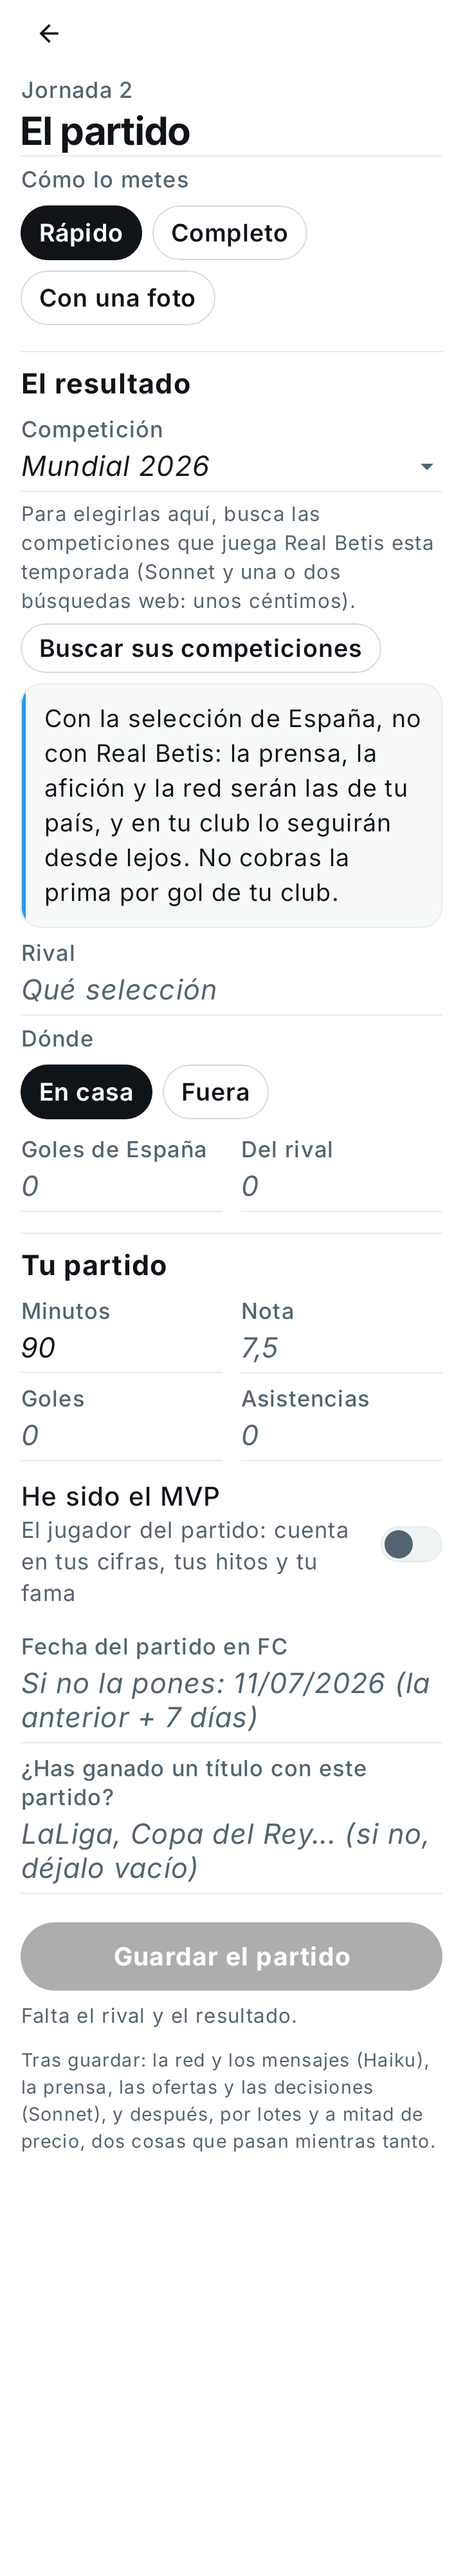
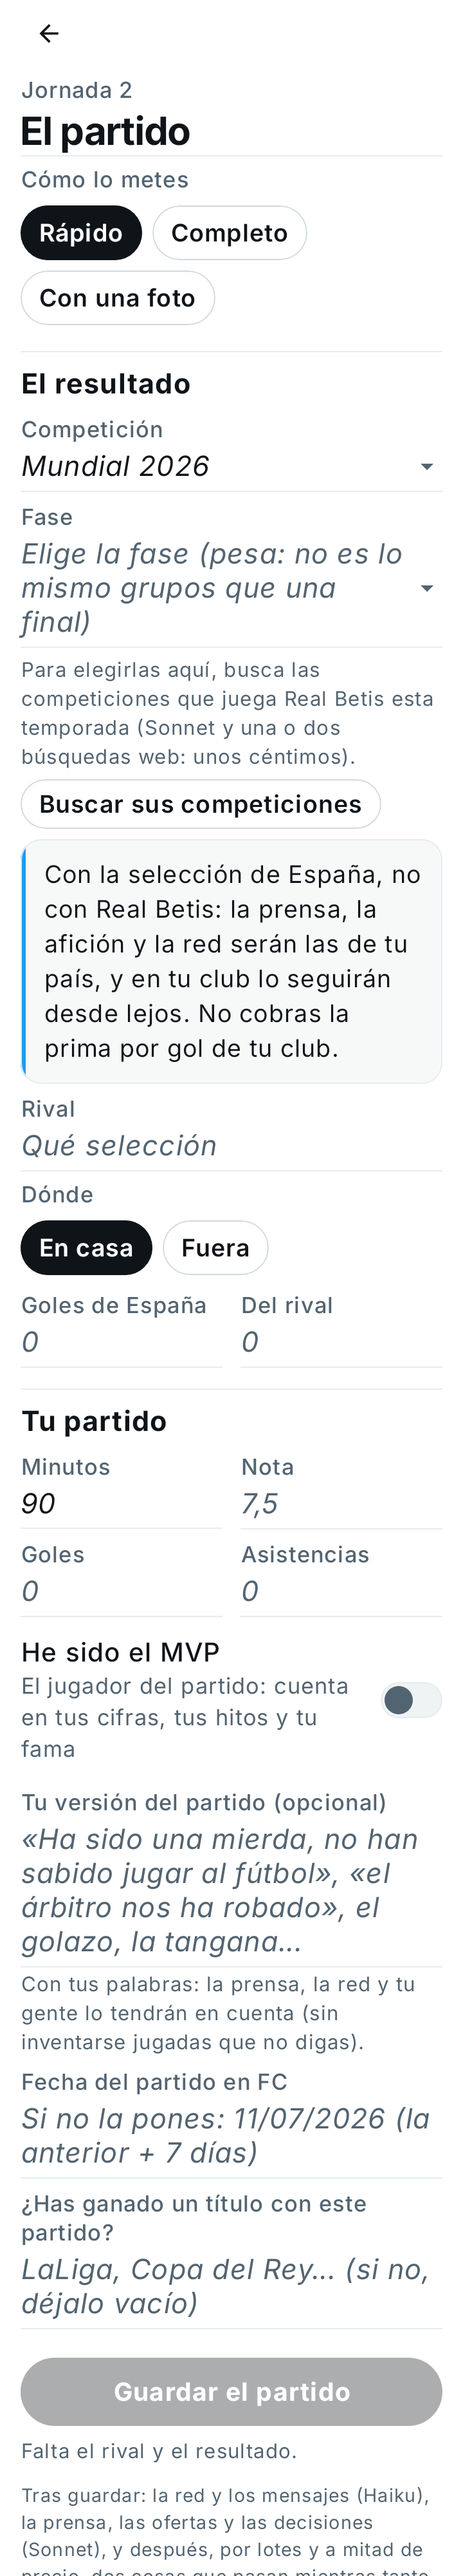
FcFeed 0.12.0: la fase del partido (y las competiciones de selecciones en la lista)
Desplegable aparte con la fase en las competiciones que la tienen; pesa
en la fama, Claude la recibe y los récords de goleador en una final se
pueden comprobar. Los torneos de selecciones salen siempre en la lista.
Arreglado: «Copa» ya no se agrupa con «Copa del Mundo» y cada torneo de
selecciones conserva su nombre.

Claude-Session: https://claude.ai/code/session_01Q4uywen3nuzUg5CTwJaCY5

diff --git a/shai/src/main/java/com/gonzalo/shai/Competiciones.kt b/shai/src/main/java/com/gonzalo/shai/Competiciones.kt
@@ -62,6 +62,49 @@ object Competiciones {
     /** ¿Es de la selección (no de su club)? «Selección», «Mundial 2026», «Eurocopa», «Nations League», «Amistoso internacional»… */
     fun deSelecciones(s: String): Boolean = familia(s).let { it == Familia.SELECCION || it == Familia.TORNEO_SELECCIONES }
 
+    /** Las competiciones de selecciones que salen siempre en la lista (después de las del club). */
+    val DE_SELECCIONES = listOf("Copa del Mundo", "Eurocopa", "Copa América", "UEFA Nations League", "Clasificación para el Mundial", "Clasificación para la Eurocopa", "Amistoso internacional")
+
+    /**
+     * Las fases de una competición (para el desplegable), o null si no tiene (una liga, un amistoso). Las de la Champions, la Europa
+     * League y la Conference, con el formato de liga única (desde 2024/25); las del Mundial, con el de 48 selecciones (desde 2026).
+     */
+    fun fases(comp: String): List<String>? {
+        val n = norm(comp)
+        if (n.isBlank()) return null
+        val f = familia(comp)
+        return when {
+            f == Familia.CHAMPIONS || f == Familia.EUROPA || f == Familia.CONFERENCE ->
+                listOf("Fase previa", "Fase liga", "Play-off de eliminatorias", "Octavos de final", "Cuartos de final", "Semifinales", "Final")
+            f == Familia.MUNDIAL_CLUBES -> listOf("Fase de grupos", "Octavos de final", "Cuartos de final", "Semifinales", "Final")
+            f == Familia.SUPERCOPA -> listOf("Semifinales", "Final")
+            f == Familia.TORNEO_SELECCIONES && Regex("clasif|eliminator|qualif").containsMatchIn(n) -> listOf("Fase de grupos", "Repesca", "Final de la repesca")
+            f == Familia.TORNEO_SELECCIONES && hay(n, "nations league", "liga de naciones") -> listOf("Fase de liga", "Cuartos de final", "Semifinales", "Tercer puesto", "Final")
+            f == Familia.TORNEO_SELECCIONES && hay(n, "amistoso", "friendly") -> null
+            f == Familia.TORNEO_SELECCIONES && hay(n, "mundial", "copa del mundo", "world cup") -> listOf("Fase de grupos", "Dieciseisavos de final", "Octavos de final", "Cuartos de final", "Semifinales", "Tercer puesto", "Final")
+            f == Familia.TORNEO_SELECCIONES -> listOf("Fase de grupos", "Octavos de final", "Cuartos de final", "Semifinales", "Tercer puesto", "Final")
+            f == Familia.SELECCION -> listOf("Fase de grupos", "Dieciseisavos de final", "Octavos de final", "Cuartos de final", "Semifinales", "Tercer puesto", "Final")
+            f == Familia.COPA -> listOf("Primera ronda", "Segunda ronda", "Dieciseisavos de final", "Octavos de final", "Cuartos de final", "Semifinales", "Final")
+            else -> null
+        }
+    }
+
+    fun esFinal(fase: String) = norm(fase).let { it == "final" || it.startsWith("final ") && !it.startsWith("final de la repesca") }
+
+    /** Cuánto pesa la fase (para la fama del partido): la fase de grupos, 1; la final, 2. */
+    fun pesoFase(fase: String): Double {
+        val n = norm(fase)
+        return when {
+            n.isBlank() -> 1.0
+            esFinal(fase) -> 2.0
+            n.startsWith("semifinal") -> 1.6
+            n.startsWith("cuartos") -> 1.4
+            n.startsWith("octavos") || n.startsWith("tercer") -> 1.25
+            n.startsWith("dieciseisavos") || n.startsWith("play off") || n.contains("repesca") -> 1.1
+            else -> 1.0
+        }
+    }
+
     /** Una competición «bonita» a partir de lo que escribió él («liga» → «Liga»). */
     fun bonita(s: String): String = s.trim().replace(Regex("\\s+"), " ").replaceFirstChar { it.uppercase() }
 
@@ -78,7 +121,9 @@ object Competiciones {
         val usadas = partidos.map { it.competicion.trim() }.filter { it.isNotBlank() && it != OTRA }
         val extra = usadas.filter { canonica(it, base, u.compAlias) == null && familia(it) != Familia.AMISTOSO && familia(it) != Familia.SELECCION }
             .groupBy { familia(it)?.name ?: norm(it) }.values.map { g -> g.groupingBy { it }.eachCount().maxByOrNull { it.value }!!.key }
-        return (base + extra).distinctBy { norm(it) } + AMISTOSO + SELECCION
+        // (y las de selecciones, siempre: el Mundial, la Eurocopa, la Nations League…)
+        val sel = DE_SELECCIONES.filter { d -> (base + extra).none { norm(it) == norm(d) } }
+        return (base + extra).distinctBy { norm(it) } + sel + AMISTOSO + SELECCION
     }
 
     /**
@@ -93,6 +138,8 @@ object Competiciones {
         val f = familia(raw)
         if (f == Familia.AMISTOSO) return AMISTOSO
         if (f == Familia.SELECCION) return SELECCION
+        // (cada torneo de selecciones es el suyo: «Mundial 2026» no es «Clasificación para el Mundial»; va con su nombre)
+        if (f == Familia.TORNEO_SELECCIONES) return null
         if (f != null) {
             val mismas = lista.filter { familia(it) == f }
             if (mismas.size == 1) return mismas.first()
@@ -101,7 +148,8 @@ object Competiciones {
                 mismas.maxByOrNull { c -> norm(c).split(' ').count { it in ps } }?.takeIf { c -> norm(c).split(' ').any { it in ps } }?.let { return it }
             }
         }
-        if (n.length >= 4) lista.firstOrNull { val c = norm(it); c.length >= 4 && (c.contains(n) || n.contains(c)) }?.let { return it }
+        // (una que contiene a la otra, pero del mismo tipo: «Copa» no es «Copa del Mundo»)
+        if (n.length >= 4) lista.firstOrNull { val c = norm(it); c.length >= 4 && (c.contains(n) || n.contains(c)) && (f == null || familia(it) == null || familia(it) == f) }?.let { return it }
         return null
     }
 

diff --git a/shai/src/main/java/com/gonzalo/shai/PantPartido.kt b/shai/src/main/java/com/gonzalo/shai/PantPartido.kt
@@ -86,6 +86,30 @@ fun ElegirCompeticion(u: Universo, lista: List<String>, valor: String, abierto0:
     }
 }
 
+/** La fase o ronda (un desplegable aparte, solo en las competiciones que las tienen). */
+@Composable
+fun ElegirFase(fases: List<String>, valor: String, alCambiar: (String) -> Unit) {
+    var abierto by remember { mutableStateOf(false) }
+    Column(Modifier.fillMaxWidth().padding(top = 8.dp)) {
+        Etiqueta("Fase")
+        Box {
+            Row(Modifier.fillMaxWidth().tocable { abierto = true }.padding(top = 4.dp, bottom = 6.dp), verticalAlignment = androidx.compose.ui.Alignment.CenterVertically) {
+                Text(valor.ifBlank { "Elige la fase (pesa: no es lo mismo grupos que una final)" }, color = if (valor.isBlank()) Muted else Charcoal, fontFamily = Display, fontStyle = FontStyle.Italic,
+                    fontSize = 18.sp, lineHeight = 22.sp, modifier = Modifier.weight(1f))
+                Icon(Icons.Filled.ArrowDropDown, "Elegir", tint = Muted)
+            }
+            DropdownMenu(abierto, { abierto = false }, containerColor = Crudo) {
+                fases.forEach { f ->
+                    DropdownMenuItem(text = { Text(f, color = Charcoal, fontFamily = Body, fontWeight = if (f == valor) FontWeight.Bold else FontWeight.Normal, fontSize = 16.sp, lineHeight = 21.sp) },
+                        onClick = { alCambiar(f); abierto = false })
+                }
+                DropdownMenuItem(text = { Text("Sin fase", color = Muted, fontFamily = Body, fontSize = 16.sp) }, onClick = { alCambiar(""); abierto = false })
+            }
+        }
+        Filete(1.5.dp)
+    }
+}
+
 /** «Busca las competiciones de tu club»: si aún no están (o son las de tu club de antes). */
 @Composable
 fun BuscarCompeticiones(u: Universo, modifier: Modifier = Modifier) {
@@ -113,6 +137,8 @@ fun PantPartido(id: String, alVolver: () -> Unit, alGuardado: () -> Unit, comoIn
     val anteriores = remember(id) { Carreras.partidos(id).map { it.second } }
     var como by rememberSaveable { mutableIntStateOf(comoInicial) }
     var competicion by rememberSaveable { mutableStateOf(anteriores.lastOrNull()?.competicion.orEmpty()) }
+    // (la fase: la del partido anterior si era de la misma competición)
+    var fase by rememberSaveable { mutableStateOf(anteriores.lastOrNull()?.takeIf { it.competicion == competicion }?.fase.orEmpty()) }
     var rival by rememberSaveable { mutableStateOf("") }
     var local by rememberSaveable { mutableStateOf(true) }
     var gf by rememberSaveable { mutableStateOf("") }
@@ -176,7 +202,8 @@ fun PantPartido(id: String, alVolver: () -> Unit, alGuardado: () -> Unit, comoIn
 
         BloqueEditor("El resultado")
         val lista = Competiciones.lista(u, anteriores)
-        ElegirCompeticion(u, lista, competicion, desplegable) { competicion = it }
+        ElegirCompeticion(u, lista, competicion, desplegable) { if (it != competicion) fase = ""; competicion = it }
+        Competiciones.fases(competicion)?.let { fs -> ElegirFase(fs, fase) { fase = it } }
         BuscarCompeticiones(u, Modifier.padding(top = 6.dp))
         val conSeleccion = Competiciones.deSelecciones(competicion)
         val tuEquipo = if (conSeleccion) u.personaje.suSeleccion.ifBlank { "tu selección" } else u.club
@@ -240,7 +267,7 @@ fun PantPartido(id: String, alVolver: () -> Unit, alGuardado: () -> Unit, comoIn
                 if (u.modo == Rol.JUGADOR) minutos.toIntOrNull() ?: 0 else 90, goles.toIntOrNull() ?: 0, asist.toIntOrNull() ?: 0, nota(laNota), goleadores.trim(),
                 if (como == 1) equipo else emptyMap(), if (como == 1) rendimiento.trim() else "", momentos.trim(),
                 if (como == 1) media.toIntOrNull() ?: 0 else 0, Fechas.lee(fecha)?.let { Fechas.iso(it) } ?: "", if (deFoto) "foto" else if (como == 1) "completa" else "rapida", titulo.trim(),
-                mvp = u.modo == Rol.JUGADOR && mvp)
+                mvp = u.modo == Rol.JUGADOR && mvp, fase = fase.takeIf { Competiciones.fases(competicion)?.contains(it) == true }.orEmpty())
             ocupado = "Escribiendo la prensa…"; aviso = null
             ambito.launch {
                 val r = withContext(Dispatchers.IO) { runCatching { Motor.partido(id, p) } }

diff --git a/shai/src/main/java/com/gonzalo/shai/Modelo.kt b/shai/src/main/java/com/gonzalo/shai/Modelo.kt
@@ -387,8 +387,12 @@ data class Partido(
     val mvp: Boolean = false,
     /** La competición tal cual se metió, si se agrupó en otra de la lista ([Competiciones]). */
     val competicionOriginal: String = "",
+    /** La fase o ronda («Fase de grupos», «Cuartos de final», «Final»…): en las competiciones que las tienen ([Competiciones.fases]). */
+    val fase: String = "",
 ) {
     val resultado: String get() = "$golesFavor-$golesContra"
+    /** Es una final (o la vuelta de una). */
+    val esFinal: Boolean get() = Competiciones.esFinal(fase)
     val ganado: Boolean get() = golesFavor > golesContra
     val empatado: Boolean get() = golesFavor == golesContra
     val letra: String get() = if (ganado) "V" else if (empatado) "E" else "D"
@@ -396,12 +400,12 @@ data class Partido(
     fun aMapa(): Map<String, Any?> = mapOf(
         "te" to temporada, "co" to competicion, "ri" to rival, "lo" to local, "gf" to golesFavor.toLong(), "gc" to golesContra.toLong(), "mi" to minutos.toLong(),
         "go" to goles.toLong(), "as" to asistencias.toLong(), "no" to nota, "gs" to goleadores, "eq" to equipo, "re" to rendimiento, "mo" to momentos,
-        "me" to media.toLong(), "fe" to fecha, "cm" to como, "ti" to titulo, "fx" to fechaEstimada, "mv" to mvp, "co0" to competicionOriginal,
+        "me" to media.toLong(), "fe" to fecha, "cm" to como, "ti" to titulo, "fx" to fechaEstimada, "mv" to mvp, "co0" to competicionOriginal, "fa" to fase,
     )
 
     /** Una línea para contárselo a Claude. */
     fun resumen(modo: Rol): String = buildString {
-        append(if (local) "En casa contra $rival" else "En el campo del $rival"); append(" ($competicion"); if (fecha.isNotBlank()) append(", ${Fechas.bonita(fecha)}"); append("): ")
+        append(if (local) "En casa contra $rival" else "En el campo del $rival"); append(" ($competicion"); if (fase.isNotBlank()) append(", $fase"); if (fecha.isNotBlank()) append(", ${Fechas.bonita(fecha)}"); append("): ")
         append(resultado); append(if (ganado) " (victoria)" else if (empatado) " (empate)" else " (derrota)")
         if (modo == Rol.JUGADOR) {
             append(". Jugó $minutos min"); if (goles > 0) append(", $goles gol${if (goles > 1) "es" else ""}"); if (asistencias > 0) append(", $asistencias asistencia${if (asistencias > 1) "s" else ""}")
@@ -421,7 +425,7 @@ data class Partido(
             m["te"].comoTexto(), m["co"].comoTexto(), m["ri"].comoTexto(), m["lo"].comoBool(), m["gf"].comoLong().toInt(), m["gc"].comoLong().toInt(),
             m["mi"].comoLong().toInt(), m["go"].comoLong().toInt(), m["as"].comoLong().toInt(), m["no"].comoDouble(), m["gs"].comoTexto(),
             m["eq"].comoMapa().mapValues { it.value.comoTexto() }, m["re"].comoTexto(), m["mo"].comoTexto(), m["me"].comoLong().toInt(), m["fe"].comoTexto(),
-            m["cm"].comoTexto().ifBlank { "rapida" }, m["ti"].comoTexto(), m["fx"].comoBool(), m["mv"].comoBool(), m["co0"].comoTexto(),
+            m["cm"].comoTexto().ifBlank { "rapida" }, m["ti"].comoTexto(), m["fx"].comoBool(), m["mv"].comoBool(), m["co0"].comoTexto(), m["fa"].comoTexto(),
         )
     }
 }

diff --git a/shai/src/test/java/com/gonzalo/shai/FasesTest.kt b/shai/src/test/java/com/gonzalo/shai/FasesTest.kt
@@ -1,0 +1,40 @@
+package com.gonzalo.shai
+
+import org.junit.Assert.*
+import org.junit.Test
+
+/** Las fases: el desplegable sale en las competiciones que las tienen, pesa en la fama y en lo que se cuenta, y la final cuenta para los récords. */
+class FasesTest {
+    @Test fun lasFasesDeCadaCompeticion() {
+        assertEquals("Final", Competiciones.fases("UEFA Champions League")!!.last())
+        assertTrue(Competiciones.fases("UEFA Champions League")!!.contains("Fase liga"))
+        assertTrue(Competiciones.fases("Copa del Mundo")!!.contains("Dieciseisavos de final"))
+        assertTrue(Competiciones.fases("Eurocopa")!!.contains("Octavos de final"))
+        assertTrue(Competiciones.fases("Copa del Rey")!!.contains("Cuartos de final"))
+        assertNull(Competiciones.fases("LaLiga EA Sports")); assertNull(Competiciones.fases("Amistoso")); assertNull(Competiciones.fases("Amistoso internacional"))
+        assertTrue(Competiciones.esFinal("Final")); assertFalse(Competiciones.esFinal("Final de la repesca")); assertFalse(Competiciones.esFinal("Semifinales"))
+    }
+
+    @Test fun lasDeSeleccionesSalenEnLaLista() {
+        val l = Competiciones.lista(Ejemplo.universo())
+        assertTrue(l.containsAll(listOf("Copa del Mundo", "Eurocopa", "UEFA Nations League")))
+        assertTrue(l.indexOf("Copa del Mundo") < l.indexOf(Competiciones.SELECCION))
+    }
+
+    @Test fun laFinalPesaMasQueLosGrupos() {
+        val p = Partido("2026/27", "Copa del Mundo", "Portugal", true, 2, 1, 90, 2, 0, 8.5, fase = "Fase de grupos")
+        val grupos = Vida.famaDelPartido(Rol.JUGADOR, p, 40, 19)
+        val final = Vida.famaDelPartido(Rol.JUGADOR, p.copy(fase = "Final"), 40, 19)
+        assertTrue("grupos $grupos, final $final", final > grupos)
+        val t = Narrador.partido(Ejemplo.universo(), p.copy(fase = "Final"))
+        assertTrue(t.contains("(Copa del Mundo, Final")); assertTrue(t.contains("ES UNA FINAL"))
+        assertEquals("Final", Partido.de(p.copy(fase = "Final").aMapa()).fase)
+    }
+
+    @Test fun cadaTorneoDeSeleccionesSeQuedaConSuNombre() {
+        val l = Competiciones.lista(Ejemplo.universo())
+        assertEquals("Mundial 2026", Competiciones.sinPreguntar("Mundial 2026", l, emptyMap()))
+        assertEquals("Copa del Mundo", Competiciones.sinPreguntar("copa del mundo", l, emptyMap()))
+        assertEquals("Copa", Competiciones.sinPreguntar("Copa", l, emptyMap()))
+    }
+}

diff --git a/shai/src/main/java/com/gonzalo/shai/RecordsReales.kt b/shai/src/main/java/com/gonzalo/shai/RecordsReales.kt
@@ -63,7 +63,7 @@ object RecordsReales {
     val TODOS: List<RecordReal> = listOf(
         // 1. Precocidad y juventud
         e(1, "Campeón del Mundo más joven", "Pelé (Brasil) – Suecia 1958", 17, 249, "campeon_joven:mundial"),
-        e(2, "Goleador en final de Mundial más joven", "Pelé (Brasil) – doblete ante Suecia, 1958", 17, 249),
+        e(2, "Goleador en final de Mundial más joven", "Pelé (Brasil) – doblete ante Suecia, 1958", 17, 249, "gol_final_joven:mundial"),
         e(3, "Hat-trick en Mundial más joven", "Pelé (Brasil) – ante Francia (semifinal de 1958)", 17, 244, "hat_joven:mundial"),
         e(4, "Goleador más joven en la Eurocopa", "Lamine Yamal (España) – ante Francia (2024)", 16, 362, "gol_joven:eurocopa"),
         e(5, "Jugador más joven en disputar la Eurocopa", "Lamine Yamal (España) – ante Croacia (2024)", 16, 338, "debut_joven:eurocopa"),
@@ -78,7 +78,7 @@ object RecordsReales {
         e(14, "Goleador más joven de una liga del Top 5", "Lamine Yamal (FC Barcelona) – ante el Granada (2023)", 16, 87, "gol_joven:top5"),
         e(15, "Capitán más joven en la Champions League", "Rúben Neves (FC Porto) – ante el Maccabi Tel Aviv (2015)", 18, 221),
         e(16, "Hat-trick más joven en la Champions League", "Raúl González (Real Madrid) – ante el Ferencváros (1995)", 18, 114, "hat_joven:champions"),
-        e(17, "Goleador más joven en una final de Champions", "Patrick Kluivert (Ajax) – ante el AC Milan (1995)", 18, 327),
+        e(17, "Goleador más joven en una final de Champions", "Patrick Kluivert (Ajax) – ante el AC Milan (1995)", 18, 327, "gol_final_joven:champions"),
         e(18, "Goleador más joven de la Copa América", "Johnnier Montaño (Colombia) – ante Argentina (1999)", 16, 171, "gol_joven:copaamerica"),
         e(19, "Goleador más joven en la Copa Libertadores", "Angelo Gabriel (Santos FC) – ante el Deportivo Lara (2021)", 16, 105, "gol_joven:libertadores"),
         e(20, "Debutante más joven en la Premier League", "Ethan Nwaneri (Arsenal) – ante el Brentford (2022)", 15, 181, "debut_joven:premier"),

diff --git a/shai/src/main/java/com/gonzalo/shai/Narrador.kt b/shai/src/main/java/com/gonzalo/shai/Narrador.kt
@@ -128,7 +128,9 @@ Reglas que no se rompen nunca:
      * League»…), que se sepa que no es con su club y se cuente en consecuencia.
      */
     fun partido(u: Universo, p: Partido): String {
-        val base = p.resumen(u.modo) + (if (p.momentos.isBlank()) "" else "\n" +
+        val base = p.resumen(u.modo) + (if (p.fase.isBlank()) "" else "\n" + "LA FASE: ${p.fase} de ${p.competicion}. Cuanto más avanzada, más pesa: " +
+            (if (p.esFinal) "ES UNA FINAL, lo más grande que hay: que se note en todo (la presión, la repercusión, la celebración o el drama)." else "que se note en la presión, el tono y la repercusión (no es lo mismo una fase de grupos que unos cuartos).")) +
+            (if (p.momentos.isBlank()) "" else "\n" +
             "SU VERSIÓN DEL PARTIDO (lo cuenta él, con sus palabras): «${p.momentos.trim()}». Que se note de verdad: que marque el tono de la prensa, la red y lo que le escribe su gente (quien le da la razón, quien no, la polémica si la hay). Puedes comentarlo y opinar, pero no inventes jugadas, nombres ni cifras que no diga.")
         if (!Competiciones.deSelecciones(p.competicion)) return base
         val sel = u.personaje.suSeleccion.ifBlank { null }

diff --git a/shai/src/main/java/com/gonzalo/shai/Historicos.kt b/shai/src/main/java/com/gonzalo/shai/Historicos.kt
@@ -159,6 +159,7 @@ object Historicos {
     /** Lo que tiene que pasar en un partido para cada familia de edad. */
     private fun cumple(u: Universo, f: String, c: String, p: Partido, i: Int): Boolean = when (f) {
         "gol_joven", "gol_veterano" -> en(p, c) && p.goles > 0
+        "gol_final_joven" -> en(p, c) && p.esFinal && p.goles > 0
         "debut_joven" -> if (c == "pro") i == 0 else en(p, c) && p.minutos > 0
         "asist_joven" -> en(p, c) && p.asistencias > 0
         "hat_joven" -> en(p, c) && p.goles >= 3
@@ -170,6 +171,7 @@ object Historicos {
 
     private fun accion(f: String, c: String, p: Partido): String = when (f) {
         "gol_joven", "gol_veterano" -> "marca en ${nombreComp(c, p)} ante el ${p.rival}"
+        "gol_final_joven" -> "marca en la final de ${nombreComp(c, p)} ante el ${p.rival}"
         "debut_joven" -> if (c == "pro") "debuta como profesional ante el ${p.rival}" else "debuta en ${nombreComp(c, p)} ante el ${p.rival}"
         "asist_joven" -> "da una asistencia en ${nombreComp(c, p)} ante el ${p.rival}"
         "hat_joven" -> "le hace un hat-trick al ${p.rival} en ${nombreComp(c, p)}"

diff --git a/shai/src/test/java/com/gonzalo/shai/GenteYCompeticionesTest.kt b/shai/src/test/java/com/gonzalo/shai/GenteYCompeticionesTest.kt
@@ -39,7 +39,8 @@ class GenteYCompeticionesTest {
     @Test fun elDesplegableTraeLasDelClubAmistosoYSeleccion() {
         val u = Carreras.guarda(Ejemplo.universo().copy(comps = listOf("LaLiga EA Sports", "Copa del Rey"), compsDe = "Real Betis"))
         val l = Competiciones.lista(u)
-        assertEquals(listOf("LaLiga EA Sports", "Copa del Rey", Competiciones.AMISTOSO, Competiciones.SELECCION), l)
+        // (y desde la 0.12.0, las de selecciones entre las del club y «Amistoso»)
+        assertEquals(listOf("LaLiga EA Sports", "Copa del Rey") + Competiciones.DE_SELECCIONES + listOf(Competiciones.AMISTOSO, Competiciones.SELECCION), l)
         // «Otra…»: se añade a la lista (y no se repite)
         assertEquals("Trofeo de la ciudad", Motor.anadeCompeticion(u.id, "trofeo de la ciudad"))
         assertTrue("Trofeo de la ciudad" in Competiciones.lista(Carreras.de(u.id)!!))

diff --git a/shai/src/main/java/com/gonzalo/shai/Vida.kt b/shai/src/main/java/com/gonzalo/shai/Vida.kt
@@ -245,9 +245,11 @@ object Vida {
         } else puntos += if (p.ganado) 1.2 else if (p.empatado) 0.2 else -0.8
         // Con la selección se ve más (todo el país mira)
         if (puntos > 0 && Competiciones.deSelecciones(p.competicion)) puntos *= 1.3
+        // Y la fase: no es lo mismo la fase de grupos que una final
+        if (puntos > 0) puntos *= Competiciones.pesoFase(p.fase)
         val freno = 1.0 - fama.coerceIn(0, 100) / 115.0
         val g = if (puntos > 0) puntos * freno * pesoEdad(edad, true) else puntos * pesoEdad(edad, false)
-        val tope = when { edad <= 21 -> 4; edad <= 27 -> 3; else -> 2 }
+        val tope = when { edad <= 21 -> 4; edad <= 27 -> 3; else -> 2 } + (if (p.esFinal) 2 else if (Competiciones.pesoFase(p.fase) >= 1.4) 1 else 0)
         return Math.round(g).toInt().coerceIn(-3, tope)
     }
 

diff --git a/shai/src/main/java/com/gonzalo/shai/PantAjustes.kt b/shai/src/main/java/com/gonzalo/shai/PantAjustes.kt
@@ -24,7 +24,7 @@ import kotlinx.coroutines.Dispatchers
 import kotlinx.coroutines.launch
 import kotlinx.coroutines.withContext
 
-const val VERSION = "0.11.0"
+const val VERSION = "0.12.0"
 
 /** «Ajustes»: Aspecto · IA · Actualizar. Todo se guarda en este móvil. */
 @Composable

diff --git a/docs/fcfeed/HISTORIA.md b/docs/fcfeed/HISTORIA.md
@@ -5,6 +5,20 @@ los mensajes, la prensa, las ofertas, la vida, el dinero), con Claude y tu clave
 siempre: se instala encima). Icono: un bocadillo blanco con un balón, sobre negro (`herramientas/apartes/iconos.py`).
 **No es de la familia** desde la 0.6.0 (antes se llamaba Shai): sin cuenta, sin revista; todo se guarda en el móvil.
 
+## 0.12.0
+
+- **La fase del partido.** Un desplegable aparte, debajo de la competición, en las que tienen fases: la Champions, la Europa League y la
+  Conference (formato de liga: fase previa, fase liga, play-off, octavos, cuartos, semifinales, final), el Mundial (de 48: grupos,
+  dieciseisavos, octavos, cuartos, semifinales, tercer puesto, final), la Eurocopa y los demás torneos de selecciones, la Nations League,
+  las eliminatorias, el Mundial de Clubes, la Copa y la Supercopa. Se recuerda la del partido anterior si es la misma competición.
+- **Pesa:** la fama del partido se multiplica por la fase (grupos ×1, octavos ×1,25, cuartos ×1,4, semis ×1,6, final ×2, con más tope en
+  las rondas grandes), Claude la recibe («ES UNA FINAL, lo más grande que hay») y los récords de «goleador más joven en una final de Mundial»
+  y «de Champions» (#2 y #17), que ya estaban en la lista, por fin se pueden comprobar.
+- **Las competiciones de selecciones, en la lista:** Copa del Mundo, Eurocopa, Copa América, UEFA Nations League, las clasificaciones y
+  el amistoso internacional, siempre, entre las del club y «Amistoso».
+- Arreglado de paso: al agrupar competiciones, «Copa» ya no se junta con «Copa del Mundo», y cada torneo de selecciones se queda con su
+  nombre («Mundial 2026» no pasa a «Clasificación para el Mundial»).
+
 ## 0.11.0
 
 - **Las cláusulas importan.** Cada oferta de traspaso, renovación o banquillo trae la cláusula de rescisión del contrato nuevo (la propone
